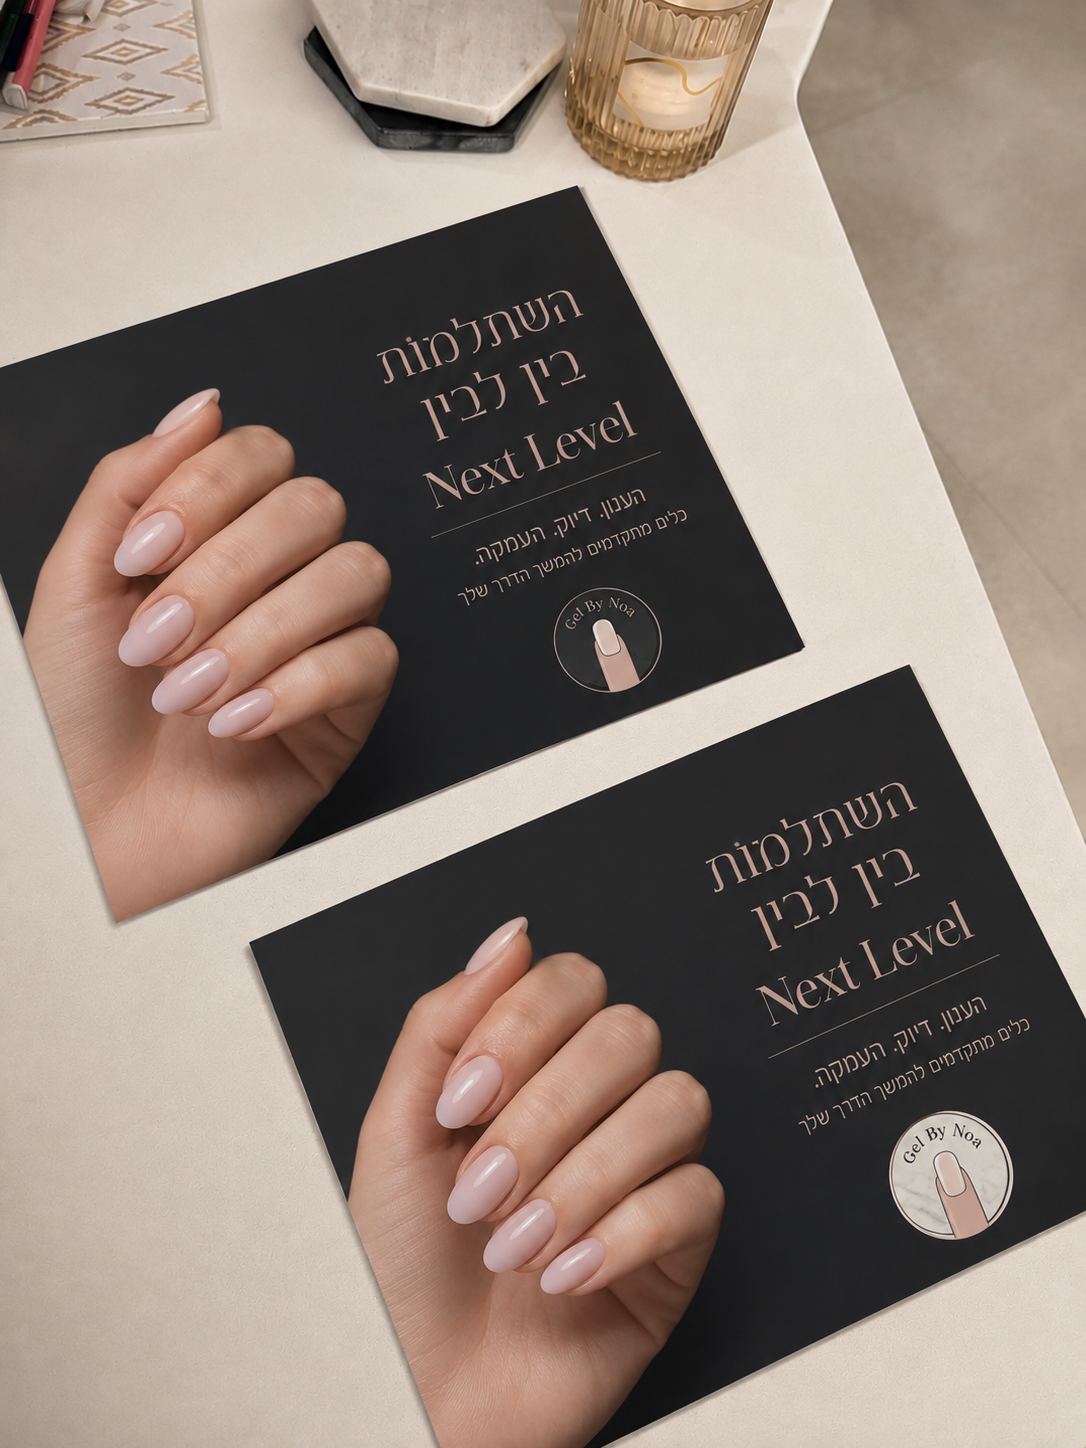
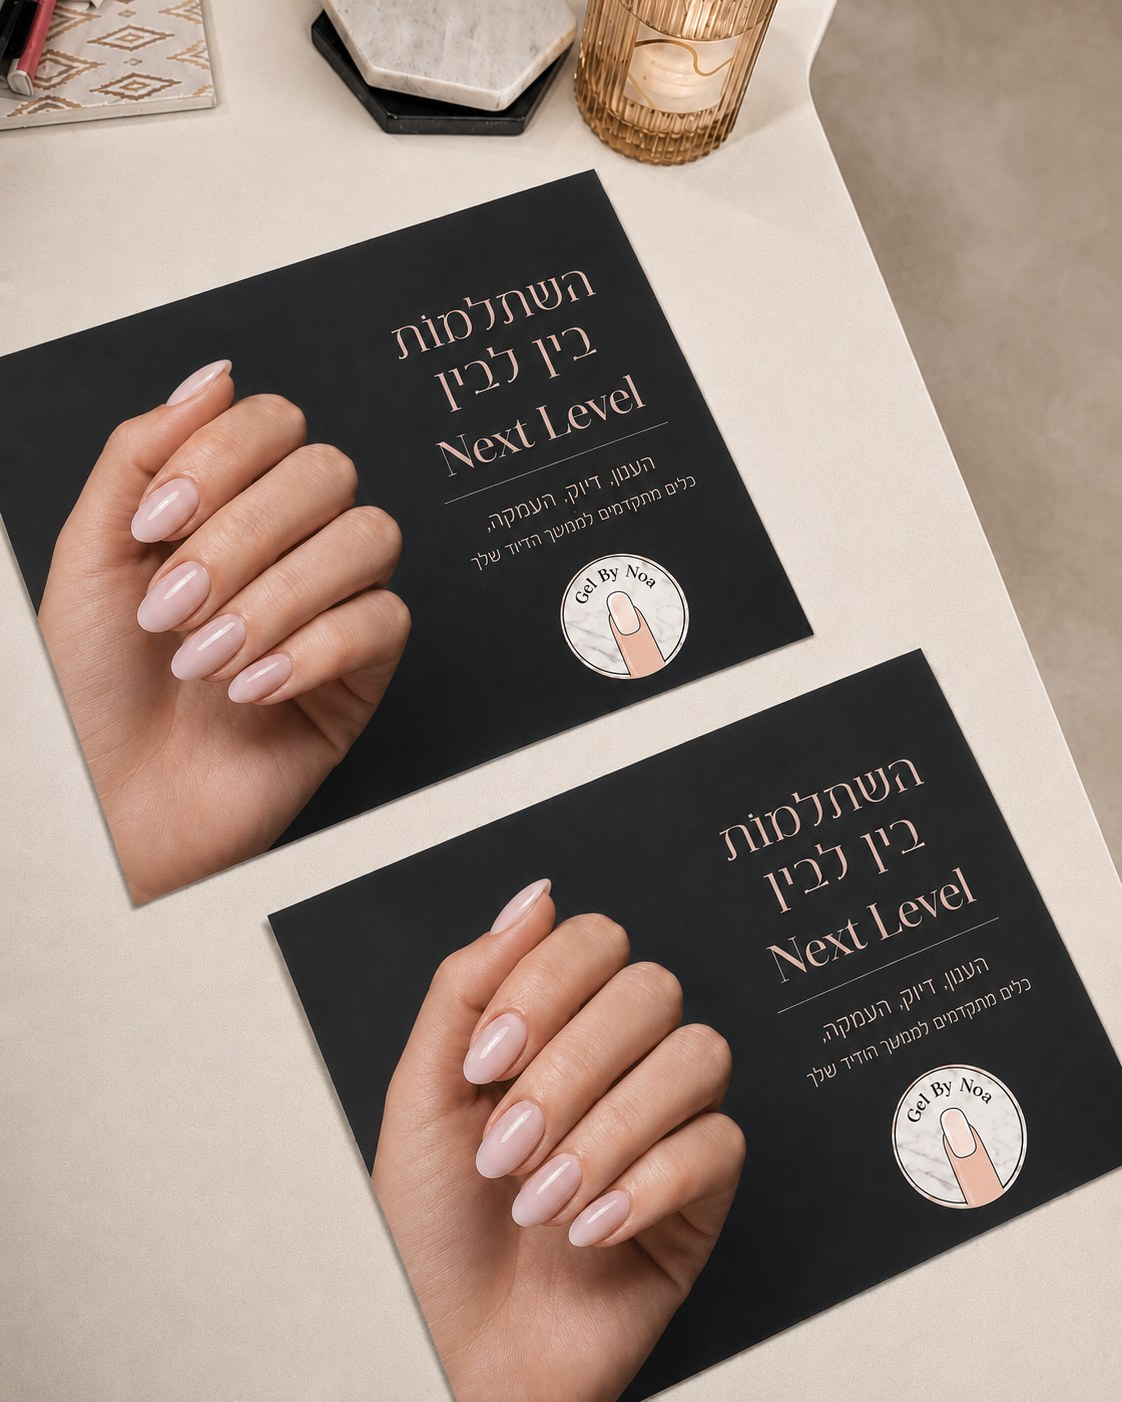
Replace training-page image and collapse all FAQ items by default (#1)
* Replace training page (בין לבין) image with new Next Level artwork

Claude-Session: https://claude.ai/code/session_01729EcupYyhL17WYqscE1BA

* Collapse all FAQ items by default across pages

Remove the 'open' attribute from the first FAQ <details> on every page so
all questions start closed and expand on click, on both web and mobile.

Claude-Session: https://claude.ai/code/session_01729EcupYyhL17WYqscE1BA

* Collapse FAQ by default in design-system source files too

Remove 'open' from the remaining _design and design-system component
templates so all FAQ sources are consistent with the live pages.

Claude-Session: https://claude.ai/code/session_01729EcupYyhL17WYqscE1BA

---------

diff --git a/faq.html b/faq.html
@@ -46,7 +46,7 @@
 
     <section class="section shell" style="padding-block-start: 0;">
       <div class="faq reveal">
-        <details open><summary>כמה תלמידות יש בקורס/השתלמות?<span class="sign"></span></summary><div class="faq__answer">עד שתי תלמידות. הלמידה אינטימית בכוונה, כדי שכל אחת תקבל ליווי אישי וצמוד לאורך כל הדרך. ככה אני למדתי לאורך כל הדרך, ובזה אני מאמינה. יש אפשרות גם לתיאום 1:1.</div></details>
+        <details><summary>כמה תלמידות יש בקורס/השתלמות?<span class="sign"></span></summary><div class="faq__answer">עד שתי תלמידות. הלמידה אינטימית בכוונה, כדי שכל אחת תקבל ליווי אישי וצמוד לאורך כל הדרך. ככה אני למדתי לאורך כל הדרך, ובזה אני מאמינה. יש אפשרות גם לתיאום 1:1.</div></details>
         <details><summary>אני חדשה בתחום. איזה קורס מתאים לי?<span class="sign"></span></summary><div class="faq__answer">אם את מתחילה מאפס — קורס מתחילות הוא בדיוק בשבילך, לומדים את המקצוע מהיסוד וללא צורך בניסיון קודם. אם כבר עברת קורס בסיסי בעבר ואת מרגישה שחסרים לך כלים — השתלמות בין לבין (Next Level) סוגרת פערים ומחזקת ביטחון. ולמקצועיות שכבר מקבלות לקוחות — השתלמות מקצועיות (Level Up) להעמקה ולרמה גבוהה יותר. לא בטוחה? כתבי לי ונתאים יחד את המסלול הנכון עבורך.</div></details>
         <details><summary>האם אצליח להיות מספיק טובה אחרי הקורס?<span class="sign"></span></summary><div class="faq__answer">בהחלט. הקורס (וההשתלמויות) בנויים כך שתקבלי את כל הידע, הכלים והניסיון המעשי שתצטרכי כדי להתחיל לעבוד בביטחון. בנוסף, אני מלווה אותך לאורך כל הדרך, מספקת תמיכה ועונה על כל שאלה שתהיה לך.</div></details>
         <details><summary>איך מתחילים עסק בתחום הציפורניים?<span class="sign"></span></summary><div class="faq__answer">כדי להתחיל עסק בתחום הציפורניים, יש ללמוד את היסודות בקורס מקצועי, לרכוש ציוד וחומרים איכותיים, לפתוח תיק במע״מ ובביטוח לאומי, ולבנות תכנית שיווק שתכלול רשתות חברתיות ועיצובים מקצועיים. אני כאן לעזור לך לאורך כל הדרך.</div></details>

diff --git a/course-miktzoiot.html b/course-miktzoiot.html
@@ -110,7 +110,7 @@
         <h2 class="serif reveal" data-delay="1" style="font-size: var(--fs-h2); margin-top: var(--s-2);">שאלות נפוצות</h2>
       </div>
       <div class="faq reveal">
-        <details open><summary>צריך ניסיון קודם?<span class="sign"></span></summary><div class="faq__answer">כן. ההשתלמות מיועדת למקצועיות בתחום המקבלות לקוחות באופן יום־יומי. חשוב להגיע להשתלמות עם רקע וניסיון בתחום. במידה ואת מתלבטת, תוכלי להתייעץ איתי לגבי ההשתלמות וההתאמה אלייך.</div></details>
+        <details><summary>צריך ניסיון קודם?<span class="sign"></span></summary><div class="faq__answer">כן. ההשתלמות מיועדת למקצועיות בתחום המקבלות לקוחות באופן יום־יומי. חשוב להגיע להשתלמות עם רקע וניסיון בתחום. במידה ואת מתלבטת, תוכלי להתייעץ איתי לגבי ההשתלמות וההתאמה אלייך.</div></details>
         <details><summary>מה צריך להביא?<span class="sign"></span></summary><div class="faq__answer">את החומרים שאת משתמשת בהם. רשימת ציוד מומלצת והמלצות מותגים ינתנו בהשתלמות. בנוסף, ניתן לרכוש דרכי ציוד.</div></details>
         <details><summary>מה קורה אחרי ההשתלמות?<span class="sign"></span></summary><div class="faq__answer">אנחנו נשארות בקשר ואני מלווה אותך לאורך כל הדרך. תקבלי תמיכה ומענה מקיף לכל שאלה שתתקלי בה. בנוסף, תצטרפי לקהילת התלמידות שלי — קבוצה בה מתפרסמים הטיפים החשובים, חידושים עדכניים ומידע שתמיד רלוונטי. קבוצה שבה כולן תומכות בכולן.</div></details>
       </div>

diff --git a/_design/faq.html b/_design/faq.html
@@ -678,7 +678,7 @@ button { font: inherit; cursor: pointer; border: none; background: none; color: 
 
     <section class="section shell" style="padding-block-start: 0;">
       <div class="faq reveal">
-        <details open><summary>כמה תלמידות יש בכל מחזור?<span class="sign"></span></summary><div class="faq__answer">עד שש תלמידות בלבד. הקבוצות אינטימיות בכוונה, כדי שכל אחת תקבל ליווי אישי וצמוד לאורך כל הדרך.</div></details>
+        <details><summary>כמה תלמידות יש בכל מחזור?<span class="sign"></span></summary><div class="faq__answer">עד שש תלמידות בלבד. הקבוצות אינטימיות בכוונה, כדי שכל אחת תקבל ליווי אישי וצמוד לאורך כל הדרך.</div></details>
         <details><summary>האם צריך ניסיון קודם?<span class="sign"></span></summary><div class="faq__answer">לא. קורס היסוד בנוי מאפס ומתאים גם למי שמעולם לא נגעה במכחול ג'ל. קורס המאסטריות מיועד למי שכבר שולטת בבסיס.</div></details>
         <details><summary>האם אפשר לבוא לשיעור ניסיון?<span class="sign"></span></summary><div class="faq__answer">אנחנו לא עובדות בפורמט של שיעור בודד, אבל כן מקיימות שיחת ייעוץ אישית — כדי להכיר, להבין ציפיות ולוודא התאמה.</div></details>
         <details><summary>מה כולל הליווי האישי?<span class="sign"></span></summary><div class="faq__answer">נועה מלווה כל תלמידה לאורך כל המחזור: תיקונים עדינים, משוב אישי, מענה לשאלות, וגם תמיכה בצעדים הראשונים בשטח אחרי סיום הקורס.</div></details>

diff --git a/course-beinlevein.html b/course-beinlevein.html
@@ -98,7 +98,7 @@
         <h2 class="serif reveal" data-delay="1" style="font-size: var(--fs-h2); margin-top: var(--s-2);">שאלות נפוצות</h2>
       </div>
       <div class="faq reveal">
-        <details open><summary>צריך ניסיון קודם?<span class="sign"></span></summary><div class="faq__answer">ההשתלמות היא עבור מי שלמדה קורס בסיסי בעבר שלא הספיק לה — בין אם קיבלת לקוחות ובין אם לא.</div></details>
+        <details><summary>צריך ניסיון קודם?<span class="sign"></span></summary><div class="faq__answer">ההשתלמות היא עבור מי שלמדה קורס בסיסי בעבר שלא הספיק לה — בין אם קיבלת לקוחות ובין אם לא.</div></details>
         <details><summary>מה צריך להביא?<span class="sign"></span></summary><div class="faq__answer">את המוצרים שהשתמשת/משתמשת בהם, במידה ויש. רשימת ציוד מסודרת לתחילת הדרך תינתן במהלך ההשתלמות עם הכוונה מדוייקת, בנוסף ניתן לרכוש דרכי ציוד.</div></details>
         <details><summary>מה קורה אחרי ההשתלמות?<span class="sign"></span></summary><div class="faq__answer">אנחנו נשארות בקשר ואני מלווה אותך לאורך כל הדרך. תקבלי תמיכה ומענה מקיף לכל שאלה שתתקלי בה. בנוסף, תצטרפי לקהילת התלמידות שלי — קבוצה בה מתפרסמים הטיפים החשובים, חידושים עדכניים ומידע שתמיד רלוונטי. קבוצה שבה כולן תומכות בכולן.</div></details>
       </div>

diff --git a/course.html b/course.html
@@ -194,7 +194,7 @@
         <h2 class="serif reveal" data-delay="1" style="font-size: var(--fs-h2); margin-top: var(--s-2);">שאלות נפוצות</h2>
       </div>
       <div class="faq reveal">
-        <details open><summary>צריך ניסיון קודם?<span class="sign"></span></summary><div class="faq__answer">לא — הקורס מיועד בדיוק למי שמעולם לא התעסקה בתחום.</div></details>
+        <details><summary>צריך ניסיון קודם?<span class="sign"></span></summary><div class="faq__answer">לא — הקורס מיועד בדיוק למי שמעולם לא התעסקה בתחום.</div></details>
         <details><summary>מה צריך להביא?<span class="sign"></span></summary><div class="faq__answer">בגדול, כלום. רשימת ציוד מסודרת לתחילת הדרך תינתן במהלך הקורס עם הכוונה מדוייקת, ובנוסף ניתן יהיה לרכוש ערכה התחלתית דרכי.</div></details>
         <details><summary>מה קורה אחרי הקורס?<span class="sign"></span></summary><div class="faq__answer">אנחנו נשארות בקשר ואני מלווה אותך לאורך כל הדרך. תקבלי תמיכה ומענה מקיף לכל שאלה שתתקלי בה. בנוסף, תצטרפי לקהילת התלמידות שלי — קבוצה בה מתפרסמים הטיפים החשובים, חידושים עדכניים ומידע שתמיד רלוונטי. קבוצה שבה כולן תומכות בכולן.</div></details>
       </div>

diff --git a/_design/course.html b/_design/course.html
@@ -756,7 +756,7 @@ button { font: inherit; cursor: pointer; border: none; background: none; color: 
         <h2 class="serif reveal" data-delay="1" style="font-size: var(--fs-h2); margin-top: var(--s-2);">שאלות נפוצות</h2>
       </div>
       <div class="faq reveal">
-        <details open><summary>צריך ניסיון קודם?<span class="sign"></span></summary><div class="faq__answer">לא. הקורס בנוי מאפס ומתאים למי שמעולם לא נגעה במכחול ג'ל.</div></details>
+        <details><summary>צריך ניסיון קודם?<span class="sign"></span></summary><div class="faq__answer">לא. הקורס בנוי מאפס ומתאים למי שמעולם לא נגעה במכחול ג'ל.</div></details>
         <details><summary>מה צריך להביא?<span class="sign"></span></summary><div class="faq__answer">רשימת ציוד מסודרת נשלחת מראש. אפשר גם לרכוש דרכנו ערכת פתיחה.</div></details>
         <details><summary>מה קורה אחרי הקורס?<span class="sign"></span></summary><div class="faq__answer">נשארות בקשר — תמיכה, מענה לשאלות וליווי בצעדים הראשונים בשטח.</div></details>
       </div>

diff --git a/design-system/components/faq-accordion.html b/design-system/components/faq-accordion.html
@@ -30,7 +30,7 @@
   <span class="eyebrow">Components · FAQ</span>
   <h1>שאלות נפוצות</h1>
   <div class="faq">
-    <details open>
+    <details>
       <summary>כמה תלמידות יש בכל מחזור?<span class="sign"></span></summary>
       <div class="answer">עד שש תלמידות בלבד. הקבוצות אינטימיות בכוונה, כדי שכל אחת תקבל ליווי אישי וצמוד.</div>
     </details>
